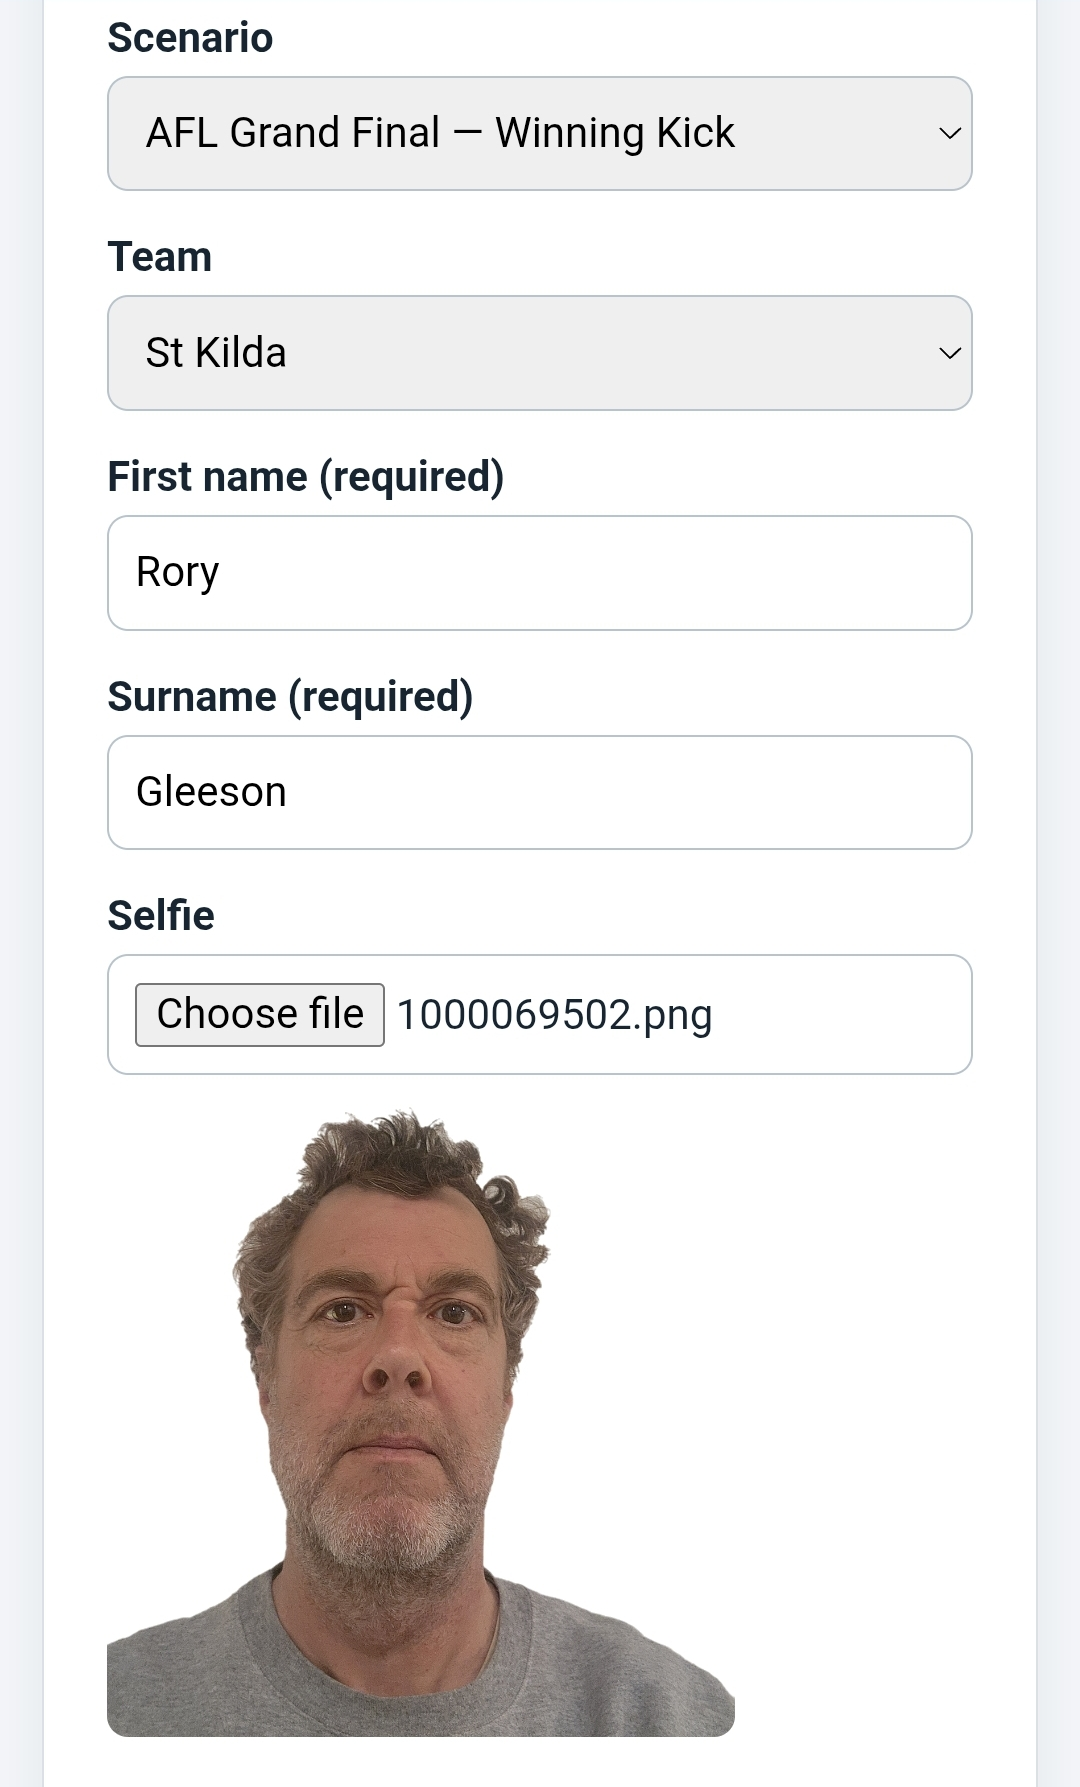
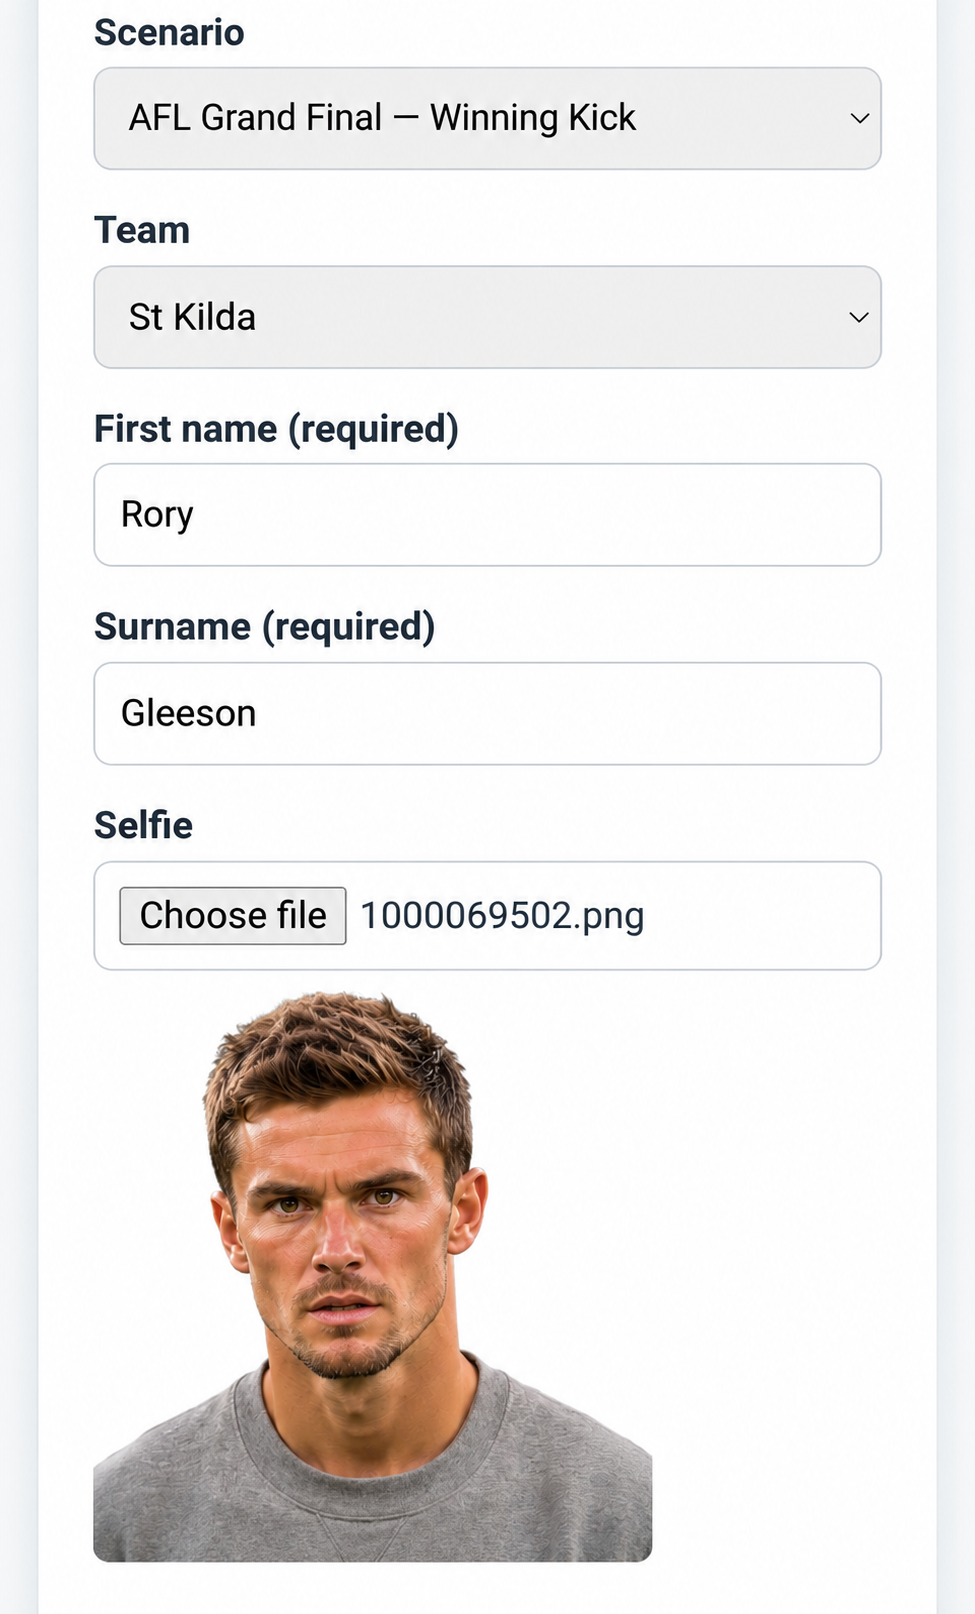
Replace README demo photos with updated St Kilda player images; remove old screenshots and root uploads

diff --git a/README.md b/README.md
@@ -4,7 +4,7 @@
 
 A mobile-friendly web app that puts you into personalised football scenes. Choose your AFL team, upload a selfie and enter your name to create AI-generated action, celebration and commentary featuring you.
 
-<img src="docs/screenshots/00-hero-video-sample.jpg" alt="Example personalised AFL video on a phone" width="420">
+<img src="docs/screenshots/03-generated-video-sample.jpg" alt="Example personalised AFL video on a phone" width="420">
 
 ## How it works
 
